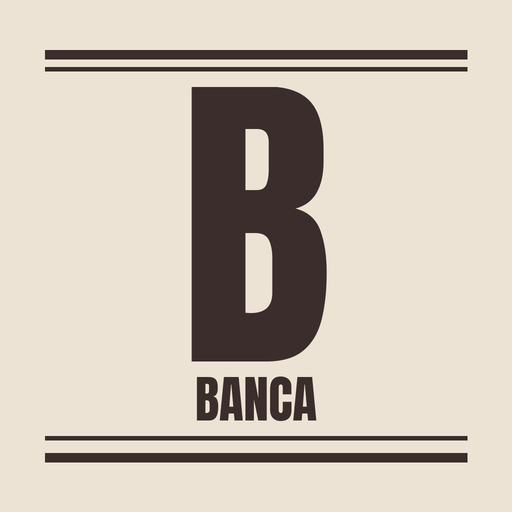
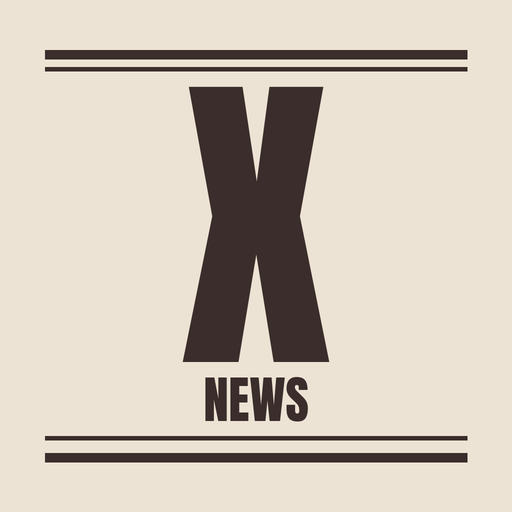
banca: o app e a tela inicial passam a se chamar Xeque News
Claude-Session: https://claude.ai/code/session_01PAtZzLJjaRV9gL2hPstsoA

Changed region(s): [[0.3438, 0.1562, 0.6562, 0.8438], [0.375, 0.2188, 0.4375, 0.5938], [0.3438, 0.1562, 0.375, 0.1875]]

diff --git a/banca/index.html b/banca/index.html
@@ -3,12 +3,12 @@
 <head>
 <meta charset="utf-8">
 <meta name="viewport" content="width=device-width, initial-scale=1, viewport-fit=cover">
-<title>Banca</title>
+<title>Xeque News</title>
 <meta name="description" content="Os jornais do dia num só lugar: Jornal de Cada Dia, Do Mundo a Lafaiete, Observatório Diário e Xeque-Mate, e Terra Brasilis (Brasil e Lafaiete).">
 <meta name="theme-color" content="#3A2D2B">
 <meta name="mobile-web-app-capable" content="yes">
 <meta name="apple-mobile-web-app-capable" content="yes">
-<meta name="apple-mobile-web-app-title" content="Banca">
+<meta name="apple-mobile-web-app-title" content="Xeque News">
 <link rel="manifest" href="manifest.webmanifest">
 <link rel="icon" type="image/png" sizes="192x192" href="icone-192.png">
 <link rel="apple-touch-icon" href="icone-180.png">
@@ -24,7 +24,7 @@ body{margin:0;background:var(--papel);color:var(--tinta);font-family:"Newsreader
 .wrap{max-width:780px;margin:0 auto;padding:max(22px, env(safe-area-inset-top, 0px)) max(16px, env(safe-area-inset-right, 0px)) 48px max(16px, env(safe-area-inset-left, 0px))}
 .duplo{border-top:6px solid var(--tinta);border-bottom:2px solid var(--tinta);height:11px}
 .duplo.inv{border-top-width:2px;border-bottom-width:6px}
-h1{font-family:"Anton",Impact,"Arial Narrow",sans-serif;font-weight:400;font-size:clamp(76px,24vw,168px);line-height:.95;text-align:center;margin:12px 0 8px;text-transform:uppercase;letter-spacing:.01em}
+h1{font-family:"Anton",Impact,"Arial Narrow",sans-serif;font-weight:400;font-size:clamp(50px,13.5vw,150px);line-height:.95;text-align:center;margin:12px 0 8px;text-transform:uppercase;letter-spacing:.01em}
 .linha{display:flex;justify-content:space-between;align-items:center;gap:8px;font-family:"Archivo",Arial,sans-serif;font-weight:800;letter-spacing:.1em;font-size:13px;text-transform:uppercase;padding:12px 2px;border-bottom:1px solid var(--tinta)}
 h2{font-family:"Playfair Display",Georgia,serif;font-weight:600;text-transform:uppercase;text-align:center;font-size:clamp(26px,6.5vw,40px);margin:18px 0 6px;letter-spacing:.02em}
 .sub{text-align:center;font-style:italic;font-size:19px;color:var(--suave);margin:0 0 22px}
@@ -55,7 +55,7 @@ a.outro:hover,a.outro:focus-visible{background:rgba(255,255,255,.4)}
 <body>
 <div class="wrap">
   <div class="duplo"></div>
-  <h1>Banca</h1>
+  <h1>Xeque News</h1>
   <div class="duplo inv"></div>
   <div class="linha"><span>5 jornais</span><span>✱</span><span class="larga">Edição todo dia</span><span class="larga">✱</span><span>10/11/2026</span></div>
   <h2>Escolha o seu jornal</h2>
@@ -91,7 +91,7 @@ a.outro:hover,a.outro:focus-visible{background:rgba(255,255,255,.4)}
   <h3 class="tamb">Fontes e compromisso editorial</h3>
   <a class="outro" href="fontes/"><span><b>Sem partido, com fonte</b> Todos os jornais seguem a mesma linha: nenhum vínculo com partido ou governo, fato separado de opinião, os dois lados, cada notícia com fonte, link e data, e erros corrigidos às claras. Veja as fontes de cada jornal.</span></a>
   <div class="caixa">"Cada página impressa aproximava o mundo"</div>
-  <p class="nota">Para ter a Banca como aplicativo no celular: no Android, abra no Chrome, toque nos três pontinhos e em "Instalar app" ou "Adicionar à tela inicial"; no iPhone, abra no Safari, toque em Compartilhar e em "Adicionar à Tela de Início". Depois da primeira visita, os jornais abrem até sem internet. Textos escritos com a ajuda do Claude, IA da Anthropic; não substituem orientação médica.</p>
+  <p class="nota">Para ter o Xeque News como aplicativo no celular: no Android, abra no Chrome, toque nos três pontinhos e em "Instalar app" ou "Adicionar à tela inicial"; no iPhone, abra no Safari, toque em Compartilhar e em "Adicionar à Tela de Início". Depois da primeira visita, os jornais abrem até sem internet. Textos escritos com a ajuda do Claude, IA da Anthropic; não substituem orientação médica.</p>
 </div>
 
 <script>

diff --git a/banca/fontes/index.html b/banca/fontes/index.html
@@ -3,16 +3,16 @@
 <head>
 <meta charset="utf-8">
 <meta name="viewport" content="width=device-width, initial-scale=1, viewport-fit=cover">
-<meta name="description" content="As fontes de referência dos jornais da Banca e o compromisso editorial: sem partido, fato separado de opinião, os dois lados, correção pública.">
+<meta name="description" content="As fontes de referência dos jornais do Xeque News e o compromisso editorial: sem partido, fato separado de opinião, os dois lados, correção pública.">
 <meta name="theme-color" content="#3A2D2B">
 <meta name="mobile-web-app-capable" content="yes">
 <meta name="apple-mobile-web-app-capable" content="yes">
 <meta name="apple-mobile-web-app-status-bar-style" content="default">
-<meta name="apple-mobile-web-app-title" content="Banca">
+<meta name="apple-mobile-web-app-title" content="Xeque News">
 <link rel="manifest" href="../manifest.webmanifest">
 <link rel="icon" type="image/png" sizes="192x192" href="../icone-192.png">
 <link rel="apple-touch-icon" href="../icone-180.png">
-<title>Fontes e compromisso editorial — Banca</title>
+<title>Fontes e compromisso editorial — Xeque News</title>
 <link rel="preconnect" href="https://fonts.googleapis.com">
 <link rel="preconnect" href="https://fonts.gstatic.com" crossorigin>
 <link rel="stylesheet" href="https://fonts.googleapis.com/css2?family=Anton&family=Playfair+Display:wght@600;700&family=Newsreader:ital,opsz,wght@0,6..72,400;1,6..72,400;1,6..72,500&family=Archivo:wght@600;800&display=swap">
@@ -52,13 +52,13 @@ h2.sec{font-family:"Playfair Display",Georgia,serif;font-weight:600;text-transfo
 @media (max-width:430px){.banca-volta span{display:none}}
 @media print{.banca-volta{display:none}}
 </style>
-<nav class="banca-volta" aria-label="Banca"><a href="../">&#8249;&nbsp;Todos os jornais</a><span>Fontes e compromisso</span><a href="../fontes/" class="banca-fontes">Fontes</a></nav>
+<nav class="banca-volta" aria-label="Xeque News"><a href="../">&#8249;&nbsp;Todos os jornais</a><span>Fontes e compromisso</span><a href="../fontes/" class="banca-fontes">Fontes</a></nav>
 <div class="wrap">
  <div class="duplo"></div>
  <h1>Fontes e Compromisso</h1>
  <div class="duplo inv"></div>
  <div class="linha"><span>Expediente do Xeque News</span><span>✱</span><span>Vale para todos os jornais</span></div>
- <p class="abre">Um jornal só merece confiança quando mostra de onde tira o que publica. Esta página reúne as fontes de referência de cada jornal da Banca, explica como elas são escolhidas e diz, com honestidade, o que prometemos e o que não podemos prometer.</p>
+ <p class="abre">Um jornal só merece confiança quando mostra de onde tira o que publica. Esta página reúne as fontes de referência de cada jornal do Xeque News, explica como elas são escolhidas e diz, com honestidade, o que prometemos e o que não podemos prometer.</p>
 
  <h2 class="sec">As fontes de cada jornal</h2>
  <div class="jornais">

diff --git a/banca/ferramentas/fontes.html b/banca/ferramentas/fontes.html
@@ -1,4 +1,4 @@
-<title>Fontes e compromisso editorial — Banca</title>
+<title>Fontes e compromisso editorial — Xeque News</title>
 <link rel="preconnect" href="https://fonts.googleapis.com">
 <link rel="preconnect" href="https://fonts.gstatic.com" crossorigin>
 <link rel="stylesheet" href="https://fonts.googleapis.com/css2?family=Anton&family=Playfair+Display:wght@600;700&family=Newsreader:ital,opsz,wght@0,6..72,400;1,6..72,400;1,6..72,500&family=Archivo:wght@600;800&display=swap">
@@ -28,7 +28,7 @@ h2.sec{font-family:"Playfair Display",Georgia,serif;font-weight:600;text-transfo
  <h1>Fontes e Compromisso</h1>
  <div class="duplo inv"></div>
  <div class="linha"><span>Expediente do Xeque News</span><span>✱</span><span>Vale para todos os jornais</span></div>
- <p class="abre">Um jornal só merece confiança quando mostra de onde tira o que publica. Esta página reúne as fontes de referência de cada jornal da Banca, explica como elas são escolhidas e diz, com honestidade, o que prometemos e o que não podemos prometer.</p>
+ <p class="abre">Um jornal só merece confiança quando mostra de onde tira o que publica. Esta página reúne as fontes de referência de cada jornal do Xeque News, explica como elas são escolhidas e diz, com honestidade, o que prometemos e o que não podemos prometer.</p>
 
  <h2 class="sec">As fontes de cada jornal</h2>
  <div class="jornais">

diff --git a/banca/brasil/index.html b/banca/brasil/index.html
@@ -8,7 +8,7 @@
 <meta name="mobile-web-app-capable" content="yes">
 <meta name="apple-mobile-web-app-capable" content="yes">
 <meta name="apple-mobile-web-app-status-bar-style" content="default">
-<meta name="apple-mobile-web-app-title" content="Banca">
+<meta name="apple-mobile-web-app-title" content="Xeque News">
 <link rel="manifest" href="../manifest.webmanifest">
 <link rel="icon" type="image/png" sizes="192x192" href="../icone-192.png">
 <link rel="apple-touch-icon" href="../icone-180.png">
@@ -352,7 +352,7 @@ html body .rainha-canto svg g{stroke:#111}
 @media (max-width:430px){.banca-volta span{display:none}}
 @media print{.banca-volta{display:none}}
 </style>
-<nav class="banca-volta" aria-label="Banca"><a href="../">&#8249;&nbsp;Todos os jornais</a><span>Terra Brasilis</span><a href="../fontes/" class="banca-fontes">Fontes</a></nav>
+<nav class="banca-volta" aria-label="Xeque News"><a href="../">&#8249;&nbsp;Todos os jornais</a><span>Terra Brasilis</span><a href="../fontes/" class="banca-fontes">Fontes</a></nav>
 <div class="folha" lang="pt-BR">
   <div class="controles">
     <div class="grupo"><button class="btn oculto" id="trocar" type="button">&#8249; Trocar caderno</button><label for="edicao" class="oculto" id="rotEdicao">Edição</label><select id="edicao" class="oculto"></select></div>

diff --git a/banca/jornal/index.html b/banca/jornal/index.html
@@ -8,7 +8,7 @@
 <meta name="mobile-web-app-capable" content="yes">
 <meta name="apple-mobile-web-app-capable" content="yes">
 <meta name="apple-mobile-web-app-status-bar-style" content="default">
-<meta name="apple-mobile-web-app-title" content="Banca">
+<meta name="apple-mobile-web-app-title" content="Xeque News">
 <link rel="manifest" href="../manifest.webmanifest">
 <link rel="icon" type="image/png" sizes="192x192" href="../icone-192.png">
 <link rel="apple-touch-icon" href="../icone-180.png">
@@ -166,7 +166,7 @@ select{max-width:100%}
 @media (max-width:430px){.banca-volta span{display:none}}
 @media print{.banca-volta{display:none}}
 </style>
-<nav class="banca-volta" aria-label="Banca"><a href="../">&#8249;&nbsp;Todos os jornais</a><span>Jornal de Cada Dia</span><a href="../fontes/" class="banca-fontes">Fontes</a></nav>
+<nav class="banca-volta" aria-label="Xeque News"><a href="../">&#8249;&nbsp;Todos os jornais</a><span>Jornal de Cada Dia</span><a href="../fontes/" class="banca-fontes">Fontes</a></nav>
 <div class="folha" lang="pt-BR">
   <div class="controles">
     <div class="grupo"><label for="edicao">Edição</label><select id="edicao"></select></div>

diff --git a/banca/observatorio/index.html b/banca/observatorio/index.html
@@ -8,7 +8,7 @@
 <meta name="mobile-web-app-capable" content="yes">
 <meta name="apple-mobile-web-app-capable" content="yes">
 <meta name="apple-mobile-web-app-status-bar-style" content="default">
-<meta name="apple-mobile-web-app-title" content="Banca">
+<meta name="apple-mobile-web-app-title" content="Xeque News">
 <link rel="manifest" href="../manifest.webmanifest">
 <link rel="icon" type="image/png" sizes="192x192" href="../icone-192.png">
 <link rel="apple-touch-icon" href="../icone-180.png">
@@ -271,7 +271,7 @@ main [id]{scroll-margin-top:12px}
 @media (max-width:430px){.banca-volta span{display:none}}
 @media print{.banca-volta{display:none}}
 </style>
-<nav class="banca-volta" aria-label="Banca"><a href="../">&#8249;&nbsp;Todos os jornais</a><span>Observatório Diário</span><a href="../fontes/" class="banca-fontes">Fontes</a></nav>
+<nav class="banca-volta" aria-label="Xeque News"><a href="../">&#8249;&nbsp;Todos os jornais</a><span>Observatório Diário</span><a href="../fontes/" class="banca-fontes">Fontes</a></nav>
 <div lang="pt-BR">
 <div class="wrap">
   <div class="ticker" id="ticker" aria-label="Últimas notícias">

diff --git a/banca/mundo-lafaiete/index.html b/banca/mundo-lafaiete/index.html
@@ -8,7 +8,7 @@
 <meta name="mobile-web-app-capable" content="yes">
 <meta name="apple-mobile-web-app-capable" content="yes">
 <meta name="apple-mobile-web-app-status-bar-style" content="default">
-<meta name="apple-mobile-web-app-title" content="Banca">
+<meta name="apple-mobile-web-app-title" content="Xeque News">
 <link rel="manifest" href="../manifest.webmanifest">
 <link rel="icon" type="image/png" sizes="192x192" href="../icone-192.png">
 <link rel="apple-touch-icon" href="../icone-180.png">
@@ -271,7 +271,7 @@ main [id]{scroll-margin-top:12px}
 @media (max-width:430px){.banca-volta span{display:none}}
 @media print{.banca-volta{display:none}}
 </style>
-<nav class="banca-volta" aria-label="Banca"><a href="../">&#8249;&nbsp;Todos os jornais</a><span>Do Mundo a Lafaiete</span><a href="../fontes/" class="banca-fontes">Fontes</a></nav>
+<nav class="banca-volta" aria-label="Xeque News"><a href="../">&#8249;&nbsp;Todos os jornais</a><span>Do Mundo a Lafaiete</span><a href="../fontes/" class="banca-fontes">Fontes</a></nav>
 <div lang="pt-BR">
 <div class="wrap">
   <div class="ticker" id="ticker" aria-label="Últimas notícias">

diff --git a/banca/xequemate/index.html b/banca/xequemate/index.html
@@ -8,7 +8,7 @@
 <meta name="mobile-web-app-capable" content="yes">
 <meta name="apple-mobile-web-app-capable" content="yes">
 <meta name="apple-mobile-web-app-status-bar-style" content="default">
-<meta name="apple-mobile-web-app-title" content="Banca">
+<meta name="apple-mobile-web-app-title" content="Xeque News">
 <link rel="manifest" href="../manifest.webmanifest">
 <link rel="icon" type="image/png" sizes="192x192" href="../icone-192.png">
 <link rel="apple-touch-icon" href="../icone-180.png">
@@ -208,7 +208,7 @@ footer{padding-block:14px 40px;font-family:var(--ui);font-size:13.5px;color:var(
 @media (max-width:430px){.banca-volta span{display:none}}
 @media print{.banca-volta{display:none}}
 </style>
-<nav class="banca-volta" aria-label="Banca"><a href="../">&#8249;&nbsp;Todos os jornais</a><span>Xeque-Mate</span><a href="../fontes/" class="banca-fontes">Fontes</a></nav>
+<nav class="banca-volta" aria-label="Xeque News"><a href="../">&#8249;&nbsp;Todos os jornais</a><span>Xeque-Mate</span><a href="../fontes/" class="banca-fontes">Fontes</a></nav>
 <div class="wrap">
   <header class="mast">
     <hr class="dbl">

diff --git a/banca/sw.js b/banca/sw.js
@@ -1,5 +1,5 @@
 /* Service worker único da Banca. Versão gerada automaticamente pelo montar.py. */
-const V = "cda209826f";
+const V = "4d9fc85230";
 const CACHE = "banca-" + V;
 const BASE = ["./", "index.html", "manifest.webmanifest", "icone-180.png", "icone-192.png", "icone-512.png", "icone-maskable-512.png", "jornal/", "jornal/index.html", "jornal/edicoes.json", "jornal/icone-192.png", "mundo-lafaiete/", "mundo-lafaiete/index.html", "mundo-lafaiete/edicoes.json", "mundo-lafaiete/icone-192.png", "observatorio/", "observatorio/index.html", "observatorio/edicoes.json", "observatorio/icone-192.png", "observatorio/brasil.json", "xequemate/", "xequemate/index.html", "xequemate/edicoes.json", "xequemate/icone-192.png", "brasil/", "brasil/index.html", "brasil/edicoes.json", "brasil/icone-192.png", "brasil/lafaiete.json", "lafaiete/edicoes.json", "fontes/", "fontes/index.html", "caso-master/", "caso-master/index.html", "caso-master/icone-192.png"];
 

diff --git a/banca/caso-master/index.html b/banca/caso-master/index.html
@@ -207,7 +207,7 @@ dl.glos dd{margin:2px 0 0;font-size:15.5px}
 
 <style>.banca-mini{font:600 13px/1.2 "IBM Plex Mono","Courier New",monospace;letter-spacing:.08em;text-transform:uppercase;text-align:center;padding:12px 0 0}
 .banca-mini a{color:#3A2D2B}</style>
-<div class="banca-mini"><a href="../">&#8249; Ver também os jornais da Banca</a></div>
+<div class="banca-mini"><a href="../">&#8249; Ver também os jornais do Xeque News</a></div>
 <div class="folha">
 <header class="cabeca">
   <div class="sobre">Observatório Geopolítico · Dossiê de estudo</div>

diff --git a/banca/ferramentas/montar.py b/banca/ferramentas/montar.py
@@ -19,7 +19,7 @@ ICONES = ["icone-180.png", "icone-192.png", "icone-512.png", "icone-maskable-512
 
 PUBS = [
     # pasta no site, pasta de origem, nome, para quem / do que trata, opções
-    #   destaque: cartão grande na tela inicial (os outros vão para "Também na Banca")
+    #   destaque: cartão grande na tela inicial (os outros vão para "Também no Xeque News")
     #   semMedicina: tira o caderno de medicina (que agora vive no Xeque-Mate)
     #   encarte: junta o caderno de Conselheiro Lafaiete do O Carijó ("jornal" ou "obs")
     ("jornal", "revista-leiga", "Jornal de Cada Dia",
@@ -93,7 +93,7 @@ CABECA = """<!doctype html>
 <meta name="mobile-web-app-capable" content="yes">
 <meta name="apple-mobile-web-app-capable" content="yes">
 <meta name="apple-mobile-web-app-status-bar-style" content="default">
-<meta name="apple-mobile-web-app-title" content="Banca">
+<meta name="apple-mobile-web-app-title" content="Xeque News">
 <link rel="manifest" href="{raiz}manifest.webmanifest">
 <link rel="icon" type="image/png" sizes="192x192" href="{raiz}icone-192.png">
 <link rel="apple-touch-icon" href="{raiz}icone-180.png">
@@ -113,7 +113,7 @@ BARRA = """
 @media (max-width:430px){.banca-volta span{display:none}}
 @media print{.banca-volta{display:none}}
 </style>
-<nav class="banca-volta" aria-label="Banca"><a href="../">&#8249;&nbsp;Todos os jornais</a><span>{nome}</span><a href="../fontes/" class="banca-fontes">Fontes</a></nav>
+<nav class="banca-volta" aria-label="Xeque News"><a href="../">&#8249;&nbsp;Todos os jornais</a><span>{nome}</span><a href="../fontes/" class="banca-fontes">Fontes</a></nav>
 """
 
 REGISTRO = """
@@ -239,7 +239,7 @@ def montar(pasta, origem, nome, desc, opts):
 VOLTA_DOSSIE = """
 <style>.banca-mini{font:600 13px/1.2 "IBM Plex Mono","Courier New",monospace;letter-spacing:.08em;text-transform:uppercase;text-align:center;padding:12px 0 0}
 .banca-mini a{color:#3A2D2B}</style>
-<div class="banca-mini"><a href="../">&#8249; Ver também os jornais da Banca</a></div>
+<div class="banca-mini"><a href="../">&#8249; Ver também os jornais do Xeque News</a></div>
 """
 
 def montar_dossie(pasta, origem, nome, desc):
@@ -254,7 +254,7 @@ def montar_dossie(pasta, origem, nome, desc):
     m = re.search(r"<(div|header|main|nav|section|article)\b", html)
     html = html[:m.start()] + VOLTA_DOSSIE + html[m.start():] if m else VOLTA_DOSSIE + html
     cab = (CABECA.format(desc=H.escape(desc), tinta=TINTA, raiz="")
-           .replace('content="Banca"', f'content="{H.escape(nome)}"'))
+           .replace('content="Xeque News"', f'content="{H.escape(nome)}"'))
     os.makedirs(d, exist_ok=True)
     open(os.path.join(d, "index.html"), "w", encoding="utf-8").write(
         cab + com_rainha(html) + REGISTRO.replace("{raiz}", "../") + "</body>\n</html>\n")
@@ -287,12 +287,12 @@ def tela_inicial(cards):
 <head>
 <meta charset="utf-8">
 <meta name="viewport" content="width=device-width, initial-scale=1, viewport-fit=cover">
-<title>Banca</title>
+<title>Xeque News</title>
 <meta name="description" content="Os jornais do dia num só lugar: Jornal de Cada Dia, Do Mundo a Lafaiete, Observatório Diário e Xeque-Mate, e Terra Brasilis (Brasil e Lafaiete).">
 <meta name="theme-color" content="{TINTA}">
 <meta name="mobile-web-app-capable" content="yes">
 <meta name="apple-mobile-web-app-capable" content="yes">
-<meta name="apple-mobile-web-app-title" content="Banca">
+<meta name="apple-mobile-web-app-title" content="Xeque News">
 <link rel="manifest" href="manifest.webmanifest">
 <link rel="icon" type="image/png" sizes="192x192" href="icone-192.png">
 <link rel="apple-touch-icon" href="icone-180.png">
@@ -308,7 +308,7 @@ body{{margin:0;background:var(--papel);color:var(--tinta);font-family:"Newsreade
 .wrap{{max-width:780px;margin:0 auto;padding:max(22px, env(safe-area-inset-top, 0px)) max(16px, env(safe-area-inset-right, 0px)) 48px max(16px, env(safe-area-inset-left, 0px))}}
 .duplo{{border-top:6px solid var(--tinta);border-bottom:2px solid var(--tinta);height:11px}}
 .duplo.inv{{border-top-width:2px;border-bottom-width:6px}}
-h1{{font-family:"Anton",Impact,"Arial Narrow",sans-serif;font-weight:400;font-size:clamp(76px,24vw,168px);line-height:.95;text-align:center;margin:12px 0 8px;text-transform:uppercase;letter-spacing:.01em}}
+h1{{font-family:"Anton",Impact,"Arial Narrow",sans-serif;font-weight:400;font-size:clamp(50px,13.5vw,150px);line-height:.95;text-align:center;margin:12px 0 8px;text-transform:uppercase;letter-spacing:.01em}}
 .linha{{display:flex;justify-content:space-between;align-items:center;gap:8px;font-family:"Archivo",Arial,sans-serif;font-weight:800;letter-spacing:.1em;font-size:13px;text-transform:uppercase;padding:12px 2px;border-bottom:1px solid var(--tinta)}}
 h2{{font-family:"Playfair Display",Georgia,serif;font-weight:600;text-transform:uppercase;text-align:center;font-size:clamp(26px,6.5vw,40px);margin:18px 0 6px;letter-spacing:.02em}}
 .sub{{text-align:center;font-style:italic;font-size:19px;color:var(--suave);margin:0 0 22px}}
@@ -339,18 +339,18 @@ a.outro:hover,a.outro:focus-visible{{background:rgba(255,255,255,.4)}}
 <body>
 <div class="wrap">
   <div class="duplo"></div>
-  <h1>Banca</h1>
+  <h1>Xeque News</h1>
   <div class="duplo inv"></div>
   <div class="linha"><span>{len(cards)} jornais</span><span>✱</span><span class="larga">Edição todo dia</span><span class="larga">✱</span><span>{hoje.strftime('%d/%m/%Y')}</span></div>
   <h2>Escolha o seu jornal</h2>
   <p class="sub">Toque num jornal para ler a edição de hoje.</p>
 {chr(10).join(itens)}
-  {('<h3 class="tamb">Também na Banca</h3>' + chr(10) + chr(10).join(outros)) if outros else ""}
+  {('<h3 class="tamb">Também no Xeque News</h3>' + chr(10) + chr(10).join(outros)) if outros else ""}
   {('<h3 class="tamb">Dossiês de estudo</h3>' + chr(10) + chr(10).join(f'  <a class="outro" href="{p}/"><img src="{p}/icone-192.png" alt="" width="44" height="44"><span><b>{H.escape(n)}</b> {H.escape(ds)}</span></a>' for p, _, n, ds in DOSSIES)) if DOSSIES else ""}
   <h3 class="tamb">Fontes e compromisso editorial</h3>
   <a class="outro" href="fontes/"><span><b>Sem partido, com fonte</b> Todos os jornais seguem a mesma linha: nenhum vínculo com partido ou governo, fato separado de opinião, os dois lados, cada notícia com fonte, link e data, e erros corrigidos às claras. Veja as fontes de cada jornal.</span></a>
   <div class="caixa">"Cada página impressa aproximava o mundo"</div>
-  <p class="nota">Para ter a Banca como aplicativo no celular: no Android, abra no Chrome, toque nos três pontinhos e em "Instalar app" ou "Adicionar à tela inicial"; no iPhone, abra no Safari, toque em Compartilhar e em "Adicionar à Tela de Início". Depois da primeira visita, os jornais abrem até sem internet. Textos escritos com a ajuda do Claude, IA da Anthropic; não substituem orientação médica.</p>
+  <p class="nota">Para ter o Xeque News como aplicativo no celular: no Android, abra no Chrome, toque nos três pontinhos e em "Instalar app" ou "Adicionar à tela inicial"; no iPhone, abra no Safari, toque em Compartilhar e em "Adicionar à Tela de Início". Depois da primeira visita, os jornais abrem até sem internet. Textos escritos com a ajuda do Claude, IA da Anthropic; não substituem orientação médica.</p>
 </div>
 {REGISTRO.replace("{raiz}", "./")}
 </body>
@@ -370,7 +370,7 @@ _f = os.path.join(BANCA, "fontes")
 os.makedirs(_f, exist_ok=True)
 _corpo = FONTES.replace('<div class="wrap">', '</head>\n<body>' + BARRA.replace("{nome}", "Fontes e compromisso") + '<div class="wrap">', 1)
 open(os.path.join(_f, "index.html"), "w", encoding="utf-8").write(
-    CABECA.format(desc="As fontes de referência dos jornais da Banca e o compromisso editorial: sem partido, fato separado de opinião, os dois lados, correção pública.", tinta=TINTA, raiz="../")
+    CABECA.format(desc="As fontes de referência dos jornais do Xeque News e o compromisso editorial: sem partido, fato separado de opinião, os dois lados, correção pública.", tinta=TINTA, raiz="../")
     + com_rainha(_corpo + "\n" + COMPROMISSO.replace("<details>", "<details open>")) + REGISTRO.replace("{raiz}", "../") + "</body>\n</html>\n")
 print("fontes: atualizado")
 
@@ -402,7 +402,7 @@ for velho, novo in REDIRECIONA.items():
     open(os.path.join(d, "sw.js"), "w", encoding="utf-8").write(SW_ANTIGO)
 
 manifest = {
-    "name": "Banca", "short_name": "Banca",
+    "name": "Xeque News", "short_name": "Xeque News",
     "description": "Os jornais do dia num só lugar: Jornal de Cada Dia, Do Mundo a Lafaiete, Observatório Diário e Xeque-Mate, e Terra Brasilis (Brasil e Lafaiete).",
     "lang": "pt-BR", "id": "/banca/", "start_url": "./", "scope": "./",
     "display": "standalone", "orientation": "portrait",

diff --git a/banca/ferramentas/icones.py b/banca/ferramentas/icones.py
@@ -38,7 +38,7 @@ def icone(letra, rotulo, tam, maskable):
     d.text(((S - (rb[2] - rb[0])) / 2 - rb[0], y0 + lh + 30 - rb[1]), rotulo, font=fr, fill=TINTA)
     return im.resize((tam, tam), Image.LANCZOS)
 
-PUBS[""] = ("B", "BANCA")  # o ícone do aplicativo único, na raiz da banca/
+PUBS[""] = ("X", "NEWS")  # o ícone do aplicativo único, na raiz da banca/
 for pasta, (letra, rotulo) in PUBS.items():
     out = os.path.join(BANCA, pasta); os.makedirs(out, exist_ok=True)
     for t in (180, 192, 512):
